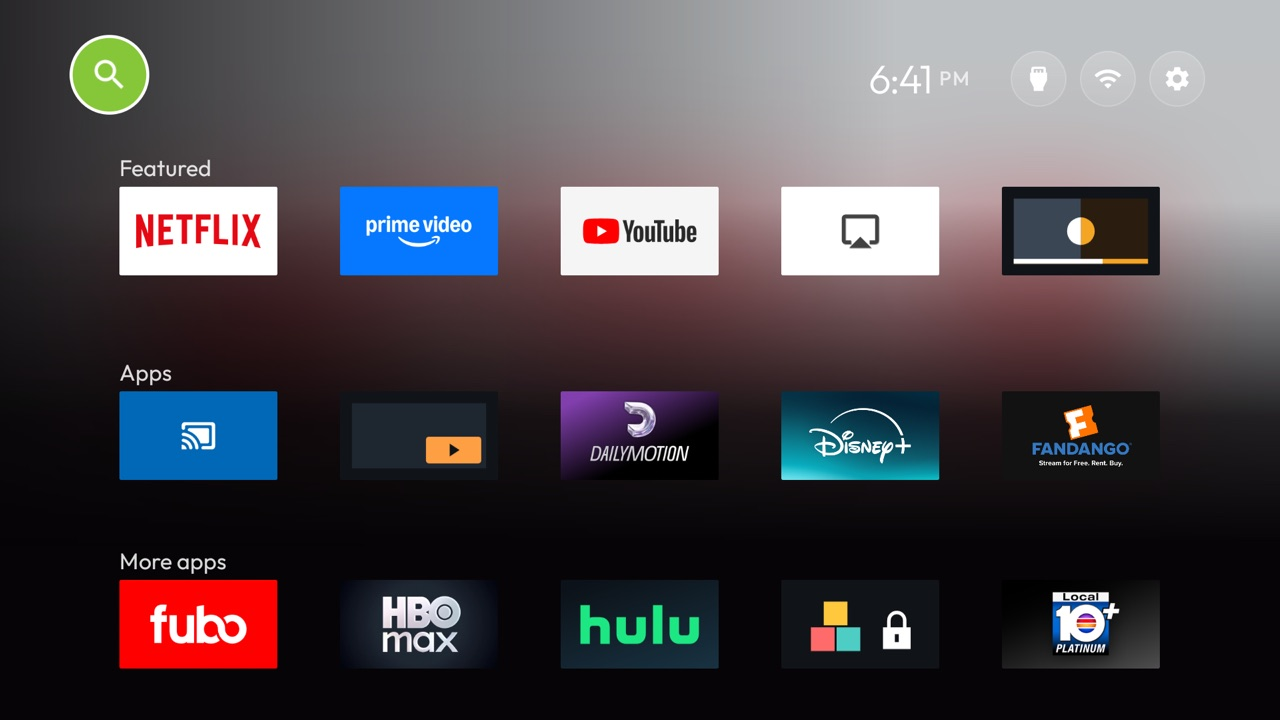
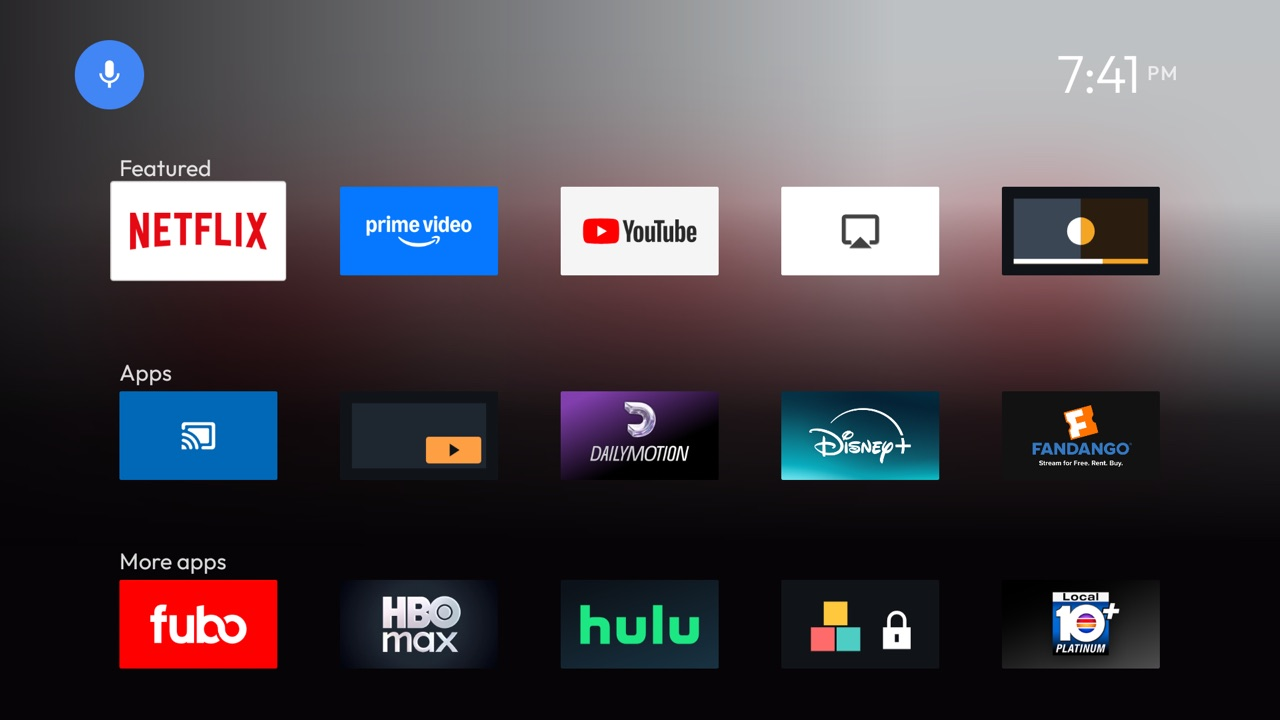
Launcher: buttons_at_end, and search_orb with Leanback's microphone
buttons_at_end moves Inputs, Wi-Fi and Settings into a row of round buttons after the last row of tiles, as
Leanback kept them; with search_orb they take its colour. The real buttons stay in the header, unseen and out of
focus, so every menu still hangs from them.

diff --git a/launcher/app/src/main/java/com/gathin/tvhome/MainActivity.java b/launcher/app/src/main/java/com/gathin/tvhome/MainActivity.java
@@ -549,6 +549,8 @@ public class MainActivity extends Activity implements AppAdapter.TileListener {
         if (lunar) lunarDate.setVisibility(View.VISIBLE);
         greetingName = cfg.greetingName;
         if (cfg.dateBelowClock) moveDateBelowClock();
+        buttonsAtEnd = cfg.buttonsAtEnd;
+        searchOrbColor = cfg.searchOrb;
         if (cfg.clockRight) moveClockRight();
         if (!cfg.homeTitle.isEmpty()) {
             TextView homeTitle = findViewById(R.id.homeTitle);
@@ -897,6 +899,14 @@ public class MainActivity extends Activity implements AppAdapter.TileListener {
         }
         if (festive) applyFestiveSkin((TextView) btnInputs, (TextView) btnSettings);
 
+        if (buttonsAtEnd) {
+            // The buttons stay in the header, unseen and out of focus, so every menu still hangs from them; the
+            // footer after the last row shows round copies that press them (footerButtons).
+            ViewGroup bar = findViewById(R.id.topButtons);
+            bar.setAlpha(0f);
+            for (int i = 0; i < bar.getChildCount(); i++) bar.getChildAt(i).setFocusable(false);
+        }
+
         // Hide the glass when focus leaves the tiles.
         getWindow().getDecorView().getViewTreeObserver().addOnGlobalFocusChangeListener((oldF, newF) -> {
             boolean onTile = newF != null && newF.getId() == R.id.card;
@@ -1133,8 +1143,7 @@ public class MainActivity extends Activity implements AppAdapter.TileListener {
         cancelPendingFocusScroll();
         RecyclerView.ViewHolder footer = grid.findViewHolderForAdapterPosition(adapter.appCount());
         final boolean restoreLibrary = adapter.isLibraryAt(adapter.appCount()) && footer != null
-                && footer.itemView.findViewById(R.id.btnLibrary) != null
-                && footer.itemView.findViewById(R.id.btnLibrary).hasFocus();
+                && footer.itemView.hasFocus();
         // Capture the app before rebinding can move focus and overwrite its key.
         final String returnKey = lastFocusedKey;
         final int returnSlot = lastFocused;
@@ -2404,8 +2413,20 @@ public class MainActivity extends Activity implements AppAdapter.TileListener {
         clockRow.removeView(ampm);
         findViewById(R.id.clockDivider).setVisibility(View.GONE);
         ((View) findViewById(R.id.date).getParent()).setVisibility(View.GONE);
-        clock.setTextSize(30f);
+        clock.setTextSize(buttonsAtEnd ? 40f : 30f);
         LinearLayout topButtons = findViewById(R.id.topButtons);
+        if (buttonsAtEnd) {
+            // buttons_at_end hides the buttons, so the time gets a box of its own at the header's right end.
+            LinearLayout box = new LinearLayout(this);
+            box.setGravity(Gravity.CENTER_VERTICAL);
+            RelativeLayout.LayoutParams boxLp = new RelativeLayout.LayoutParams(
+                    ViewGroup.LayoutParams.WRAP_CONTENT, ViewGroup.LayoutParams.WRAP_CONTENT);
+            boxLp.addRule(RelativeLayout.ALIGN_PARENT_END);
+            boxLp.addRule(RelativeLayout.ALIGN_BOTTOM, R.id.leftBlock);
+            boxLp.bottomMargin = Math.round(6 * density);
+            ((ViewGroup) topButtons.getParent()).addView(box, boxLp);
+            topButtons = box;
+        }
         LinearLayout.LayoutParams lp = new LinearLayout.LayoutParams(
                 ViewGroup.LayoutParams.WRAP_CONTENT, ViewGroup.LayoutParams.WRAP_CONTENT);
         lp.gravity = Gravity.CENTER_VERTICAL;
@@ -2450,7 +2471,7 @@ public class MainActivity extends Activity implements AppAdapter.TileListener {
         searchOrb.setOnKeyListener((v, keyCode, event) -> {
             if (event.getAction() != KeyEvent.ACTION_DOWN) return false;
             if (keyCode == KeyEvent.KEYCODE_DPAD_DOWN) focusTile(singleRow ? lastFocused : lastFocused % COLUMNS);
-            else if (keyCode == KeyEvent.KEYCODE_DPAD_RIGHT)
+            else if (keyCode == KeyEvent.KEYCODE_DPAD_RIGHT && !buttonsAtEnd)
                 (btnInputs.getVisibility() == View.VISIBLE ? btnInputs : firstTopButton()).requestFocus();
             return keyCode == KeyEvent.KEYCODE_DPAD_DOWN || keyCode == KeyEvent.KEYCODE_DPAD_RIGHT
                     || keyCode == KeyEvent.KEYCODE_DPAD_UP || keyCode == KeyEvent.KEYCODE_DPAD_LEFT;
@@ -2545,6 +2566,86 @@ public class MainActivity extends Activity implements AppAdapter.TileListener {
         }
     }
 
+    /** The footer's first button: the library pill, or with buttons_at_end the first round copy. */
+    private View footerFocus(View row) {
+        View pill = row.findViewById(R.id.btnLibrary);
+        return pill.getVisibility() == View.VISIBLE || footerCopies.isEmpty() ? pill : footerCopies.get(0);
+    }
+
+    /**
+     * buttons_at_end: a row of round copies of the header's shown buttons, in order, for the footer after the last
+     * row, as Leanback kept its settings at the bottom. Each presses (or holds) its button, so the menus still hang
+     * from the header; with search_orb they take its colour and focus look. Up goes back to the last row.
+     */
+    @Override public View footerButtons() {
+        LinearLayout row = new LinearLayout(this);
+        row.setClipChildren(false);
+        row.setClipToPadding(false);
+        footerCopies.clear();
+        ViewGroup bar = findViewById(R.id.topButtons);
+        List<TextView> originals = new ArrayList<>();
+        for (int i = 0; i < bar.getChildCount(); i++) {
+            View child = bar.getChildAt(i);
+            if (child instanceof TextView && child.isClickable() && child.getVisibility() == View.VISIBLE) originals.add((TextView) child);
+        }
+        int size = Math.round((searchOrbColor != 0 ? 52 : 42) * density), pad = (size - Math.round(22 * density)) / 2;
+        for (int i = 0; i < originals.size(); i++) {
+            TextView original = originals.get(i);
+            boolean first = i == 0, last = i == originals.size() - 1;
+            ImageView copy = new ImageView(this);
+            copy.setTag(original);
+            copy.setFocusable(true);
+            copy.setClickable(true);
+            copy.setPadding(pad, pad, pad, pad);
+            CharSequence name = original.getContentDescription() != null ? original.getContentDescription() : original.getText();
+            copy.setContentDescription(name);
+            GradientDrawable orb = null;
+            if (searchOrbColor != 0) {
+                orb = new GradientDrawable();
+                orb.setShape(GradientDrawable.OVAL);
+                orb.setColor(searchOrbColor);
+                copy.setBackground(orb);
+            } else {
+                copy.setBackgroundResource(R.drawable.pill_bg);
+            }
+            GradientDrawable ring = orb;
+            copy.setOnFocusChangeListener((v, focused) -> {
+                if (ring != null) ring.setStroke(focused ? Math.round(2 * density) : 0, Color.WHITE);
+                v.animate().scaleX(focused ? 1.15f : 1f).scaleY(focused ? 1.15f : 1f)
+                        .setDuration(reducedMotion ? Motion.REDUCED_MS : 160).start();
+                if (focused) onLibraryFocused();
+            });
+            copy.setOnClickListener(v -> original.performClick());
+            copy.setOnLongClickListener(v -> original.performLongClick());
+            copy.setOnKeyListener((v, keyCode, event) -> {
+                if (event.getAction() != KeyEvent.ACTION_DOWN) return false;
+                if (keyCode == KeyEvent.KEYCODE_DPAD_UP) onLibraryUp();
+                return keyCode == KeyEvent.KEYCODE_DPAD_UP || keyCode == KeyEvent.KEYCODE_DPAD_DOWN
+                        || (keyCode == KeyEvent.KEYCODE_DPAD_LEFT && first) || (keyCode == KeyEvent.KEYCODE_DPAD_RIGHT && last);
+            });
+            LinearLayout.LayoutParams lp = new LinearLayout.LayoutParams(size, size);
+            lp.setMarginEnd(Math.round(20 * density));
+            row.addView(copy, lp);
+            footerCopies.add(copy);
+        }
+        refreshFooterButtons();
+        return row;
+    }
+
+    /** buttons_at_end: each round copy takes its button's current icon and tint (the Wi-Fi state, a VPN lock). */
+    private void refreshFooterButtons() {
+        for (ImageView copy : footerCopies) {
+            TextView original = (TextView) copy.getTag();
+            Drawable icon = original.getCompoundDrawablesRelative()[0];
+            if (icon != null && icon.getConstantState() != null) icon = icon.getConstantState().newDrawable().mutate();
+            copy.setImageDrawable(icon);
+            // The icon's resting colour (white, or the Wi-Fi state's), not the pill's dark focused one: the copy's
+            // background stays the same colour when focused.
+            ColorStateList tint = original.getCompoundDrawableTintList();
+            copy.setImageTintList(tint == null ? null : ColorStateList.valueOf(tint.getDefaultColor()));
+        }
+    }
+
     @Override public void onLibraryUp() {
         if (adapter.appCount() == 0) { firstTopButton().requestFocus(); return; }
         int lastRow = ((adapter.appCount() - 1) / COLUMNS) * COLUMNS;
@@ -2557,7 +2658,7 @@ public class MainActivity extends Activity implements AppAdapter.TileListener {
         if (!adapter.isLibraryAt(position)) return;
         RecyclerView.ViewHolder holder = grid.findViewHolderForAdapterPosition(position);
         if (holder != null) {
-            View button = holder.itemView.findViewById(R.id.btnLibrary);
+            View button = footerFocus(holder.itemView);
             Rect visible = new Rect();
             if (button.getGlobalVisibleRect(visible) && visible.height() >= button.getHeight()) {
                 if (button.requestFocus()) libraryFocusPending = false;
@@ -2570,7 +2671,7 @@ public class MainActivity extends Activity implements AppAdapter.TileListener {
                 if (appLibrary != null || !hasWindowFocus()) return;
                 RecyclerView.ViewHolder footer = grid.findViewHolderForAdapterPosition(adapter.appCount());
                 if (footer != null && adapter.isLibraryAt(adapter.appCount())
-                        && footer.itemView.findViewById(R.id.btnLibrary).requestFocus()) libraryFocusPending = false;
+                        && footerFocus(footer.itemView).requestFocus()) libraryFocusPending = false;
             });
             return;
         }
@@ -2581,7 +2682,7 @@ public class MainActivity extends Activity implements AppAdapter.TileListener {
                 if (pendingFocusScroll != this) return;
                 pendingFocusScroll = null;
                 RecyclerView.ViewHolder footer = rv.findViewHolderForAdapterPosition(position);
-                if (footer != null && footer.itemView.findViewById(R.id.btnLibrary).requestFocus())
+                if (footer != null && footerFocus(footer.itemView).requestFocus())
                     libraryFocusPending = false;
             }
         };
@@ -2953,10 +3054,16 @@ public class MainActivity extends Activity implements AppAdapter.TileListener {
                 btnWifi.setCompoundDrawableTintList(tint);
             }
         }
+        refreshFooterButtons();
     }
 
     /** config.xml icon_only_buttons. */
     private boolean iconOnlyButtons;
+    /** buttons_at_end, and the round copies of the header's buttons its footer shows. */
+    private boolean buttonsAtEnd;
+    private final List<ImageView> footerCopies = new ArrayList<>();
+    /** search_orb's colour, 0 without one; buttons_at_end's copies take it too. */
+    private int searchOrbColor;
     /** search_orb's button; null without one. */
     private ImageView searchOrb;
     /** tile_corner_radius, for the glass highlight's corners. */

diff --git a/launcher/app/src/main/java/com/gathin/tvhome/AppAdapter.java b/launcher/app/src/main/java/com/gathin/tvhome/AppAdapter.java
@@ -63,6 +63,8 @@ public class AppAdapter extends RecyclerView.Adapter<RecyclerView.ViewHolder> {
         void onLibraryUp();
         /** A tile whose launch_actions entry is "input:<id>": switch to that TV input instead of opening an app. */
         void onOpenInput(String inputId);
+        /** buttons_at_end: the header's buttons, which the footer after the last row takes in. */
+        View footerButtons();
     }
 
     static final class Entry {
@@ -222,6 +224,8 @@ public class AppAdapter extends RecyclerView.Adapter<RecyclerView.ViewHolder> {
     private final boolean animations;
     private final boolean advancedEffects;
     private final boolean showLibrary;
+    /** buttons_at_end: the footer holds the header's buttons instead of the library pill. */
+    private final boolean buttonsAtEnd;
     /** Packages with a leanback entry at the last reload(): their tiles launch with the leanback category. */
     private Set<String> leanbackPackages = new HashSet<>();
     private final boolean showHomeSettings;
@@ -257,7 +261,9 @@ public class AppAdapter extends RecyclerView.Adapter<RecyclerView.ViewHolder> {
         this.animations = cfg.animations;
         this.advancedEffects = cfg.animations && cfg.advancedEffects;
         this.showHomeSettings = cfg.showHomeSettingsShortcut;
-        this.showLibrary = LibraryApps.showPill(cfg.appLibrary, cfg.libraryButton, cfg.showLibraryPill);
+        this.buttonsAtEnd = cfg.buttonsAtEnd;
+        // buttons_at_end: the library opens from its button among the others, so there is no pill.
+        this.showLibrary = !buttonsAtEnd && LibraryApps.showPill(cfg.appLibrary, cfg.libraryButton, cfg.showLibraryPill);
         this.reducedMotion = cfg.reducedMotion;
         this.focusOvershoot = cfg.focusOvershoot;
         this.rowsBelowDock = cfg.rowsBelowDock;
@@ -430,6 +436,17 @@ public class AppAdapter extends RecyclerView.Adapter<RecyclerView.ViewHolder> {
         if (viewType == 1) {
             View row = LayoutInflater.from(ctx).inflate(R.layout.row_app_library, parent, false);
             View button = row.findViewById(R.id.btnLibrary);
+            if (buttonsAtEnd) {
+                // The one footer: round copies of the header's buttons, left-aligned under the first column.
+                button.setVisibility(View.GONE);
+                ((ViewGroup) row).setClipChildren(false);   // room for a focused button's zoom
+                View buttons = listener.footerButtons();
+                FrameLayout.LayoutParams lp = new FrameLayout.LayoutParams(ViewGroup.LayoutParams.WRAP_CONTENT,
+                        ViewGroup.LayoutParams.WRAP_CONTENT, android.view.Gravity.START | android.view.Gravity.CENTER_VERTICAL);
+                lp.setMarginStart(Math.round(14 * ctx.getResources().getDisplayMetrics().density));
+                ((ViewGroup) row).addView(buttons, lp);
+                return new RecyclerView.ViewHolder(row) { };
+            }
             button.setOnClickListener(v -> listener.onLibraryRequested());
             button.setOnFocusChangeListener((v, focused) -> { if (focused) listener.onLibraryFocused(); });
             button.setOnKeyListener((v, key, event) -> {
@@ -601,12 +618,13 @@ public class AppAdapter extends RecyclerView.Adapter<RecyclerView.ViewHolder> {
 
     @Override
     public int getItemCount() {
-        return items.size() + (showLibrary ? 1 : 0);
+        return items.size() + (showLibrary || buttonsAtEnd ? 1 : 0);
     }
 
     int appCount() { return items.size(); }
 
-    boolean isLibraryAt(int position) { return showLibrary && position == items.size(); }
+    /** The footer after the last row: the library pill, or buttons_at_end's buttons. */
+    boolean isLibraryAt(int position) { return (showLibrary || buttonsAtEnd) && position == items.size(); }
 
     @Override public int getItemViewType(int position) { return isLibraryAt(position) ? 1 : 0; }
 

diff --git a/launcher/app/src/main/java/com/gathin/tvhome/Config.java b/launcher/app/src/main/java/com/gathin/tvhome/Config.java
@@ -282,6 +282,8 @@ final class Config {
     final boolean clockRight;
     /** The search button's colour (config.xml, search_orb); 0 hides it. */
     final int searchOrb;
+    /** The header's buttons in a row after the last tiles (config.xml, buttons_at_end); never with single_row or top_menu. */
+    final boolean buttonsAtEnd;
 
     private Config(List<String> dockApps, boolean fillDock, List<String> hiddenApps, List<String> libraryApps, List<String> libraryExcludedApps, String liveTvPackage,
                    String liveTvAction, String liveTvInputId, Map<String, String> launchActions, Map<String, String> appLabels,
@@ -298,7 +300,8 @@ final class Config {
                    boolean handleViewInputs, boolean tileMenu, boolean dockEvenPadding, boolean dockBand, boolean cinematicDots, boolean cinematicWhiteFocus, boolean wifiStatusColor, int cinematicScrim, int cinematicArt,
                    Map<String, Set<String>> wallpaperMoods, boolean gamepadPassthrough, boolean consumeVolumeKeys, boolean powerOnHome, boolean homeLongPressHome, boolean wifiStatusWarnings, List<String> topBarApps, boolean showGreeting, boolean headerWhite, boolean clockWallpaper, int clockWallpaperDim, boolean clockGlow, String glassStyle, boolean singleRow, boolean dockBandAll, boolean lunarDate, int lunarUtcOffset, boolean dateBelowClock, boolean vpnPill, String locale, boolean powerOnHomeAlways, boolean inputsConnectedOnly,
                    int openOnStartNetworkWait, boolean iconOnlyVpn, int tileCornerRadius, boolean squareTiles, boolean flatTiles,
-                   boolean tileLabelInside, List<String> rowTitles, String homeTitle, boolean clockRight, int searchOrb) {
+                   boolean tileLabelInside, List<String> rowTitles, String homeTitle, boolean clockRight, int searchOrb,
+                   boolean buttonsAtEnd) {
         this.handleViewInputs = handleViewInputs;
         this.tileMenu = tileMenu;
         this.inputKeycodes = inputKeycodes;
@@ -356,6 +359,7 @@ final class Config {
         this.homeTitle = homeTitle;
         this.clockRight = clockRight || !homeTitle.isEmpty();
         this.searchOrb = searchOrb;
+        this.buttonsAtEnd = buttonsAtEnd && !singleRow && !topMenu;
         this.libraryButton = libraryButton;
         this.showLibraryPill = showLibraryPill;
         this.wifiLabelWidth = wifiLabelWidth;
@@ -559,6 +563,7 @@ final class Config {
         String homeTitle = res.getString(R.string.home_title).trim();
         boolean clockRight = res.getBoolean(R.bool.clock_right);
         String searchOrb = res.getString(R.string.search_orb).trim();
+        boolean buttonsAtEnd = res.getBoolean(R.bool.buttons_at_end);
         boolean applied = false;
 
         File dir = dir(ctx);
@@ -677,6 +682,7 @@ final class Config {
             homeTitle = string(json, "home_title", homeTitle);
             clockRight = bool(json, "clock_right", clockRight);
             searchOrb = string(json, "search_orb", searchOrb);
+            buttonsAtEnd = bool(json, "buttons_at_end", buttonsAtEnd);
         }
         // A top-bar app is moved there, not copied: it leaves the grid.
         for (String pkg : topBarApps) if (!hidden.contains(pkg)) hidden.add(pkg);
@@ -740,7 +746,7 @@ final class Config {
                 dateBelowClock, vpnPill, locale, powerOnHomeAlways, inputsConnectedOnly,
                 Math.max(0, Math.min(600, openOnStartNetworkWait)), iconOnlyVpn, Math.max(0, Math.min(24, tileCornerRadius)),
                 "square".equalsIgnoreCase(tileShape.trim()), flatTiles, tileLabelInside, singleRow ? Collections.emptyList() : rowTitles,
-                homeTitle, clockRight, searchOrbColor(searchOrb));
+                homeTitle, clockRight, searchOrbColor(searchOrb), buttonsAtEnd);
     }
 
     /**

diff --git a/themes/README.md b/themes/README.md
@@ -85,7 +85,8 @@ A new key needs one there in the same pull request.
 | `row_titles` | list of strings | A small heading above each row of tiles, in order, the first over the dock row (or the first row with `dock_row` false); rows past the list have none. Not with `single_row` |
 | `home_title` | string | A large title on the left of the header ("Start") in place of the clock and date; the clock moves to the top right, as with `clock_right` |
 | `clock_right` | bool | The time at the top right, beside the buttons, without the date (`false` by default) |
-| `search_orb` | `"#RRGGBB"` | A round search button of this colour at the top left; OK opens the TV's search, or says it can't when the TV has none. Empty (the default) leaves it out |
+| `search_orb` | `"#RRGGBB"` | A round search button of this colour at the top left, with a microphone as on Leanback; OK opens the TV's search, or says it can't when the TV has none. Empty (the default) leaves it out |
+| `buttons_at_end` | bool | Inputs, Wi-Fi and Settings (and the library button) leave the header for a row of round buttons after the last row of tiles, as on Leanback; with `search_orb` they take its colour. Their menus still open at the top right (`false` by default). Not with `single_row` or `top_menu` |
 | `icon_tiles` | list of package names, `config.xml` only | Apps drawn from their icon and name instead of their banner, for banners that crop badly; empty by default. Not read from a theme |
 | `app_library_selection` | bool | OK toggles Home checkmarks in the library; checked apps first, both groups alphabetized. Hiding keeps focus on the adjacent next app (previous at the end). Requires `app_library`; `false` preserves the standard open/long-press behavior |
 | `library_ok_opens` | bool | OK opens every app in the library, not only the ones on Home, for a library that holds the apps `hidden_apps` keeps off Home; holding OK still offers Add to Home, and cards drop their "Add to Home" line. Requires `app_library`; `app_library_selection` wins when both are on; `false` by default |

diff --git a/docs/switches.md b/docs/switches.md
@@ -67,4 +67,5 @@ fits the rules; keys from before the rule sit on its wanted list until a screens
 | `row_titles` | <img src="switches/search_orb.jpg" width="320" alt="row_titles on a TV"> |
 | `home_title` | <img src="switches/home_title.jpg" width="320" alt="home_title Start on a TV"> |
 | `clock_right` | <img src="switches/search_orb.jpg" width="320" alt="clock_right on a TV"> |
-| `search_orb` | <img src="switches/search_orb.jpg" width="320" alt="search_orb focused on a TV"> |
+| `search_orb` | <img src="switches/search_orb.jpg" width="320" alt="search_orb on a TV"> |
+| `buttons_at_end` | <img src="switches/buttons_at_end.jpg" width="320" alt="buttons_at_end on a TV"> |
